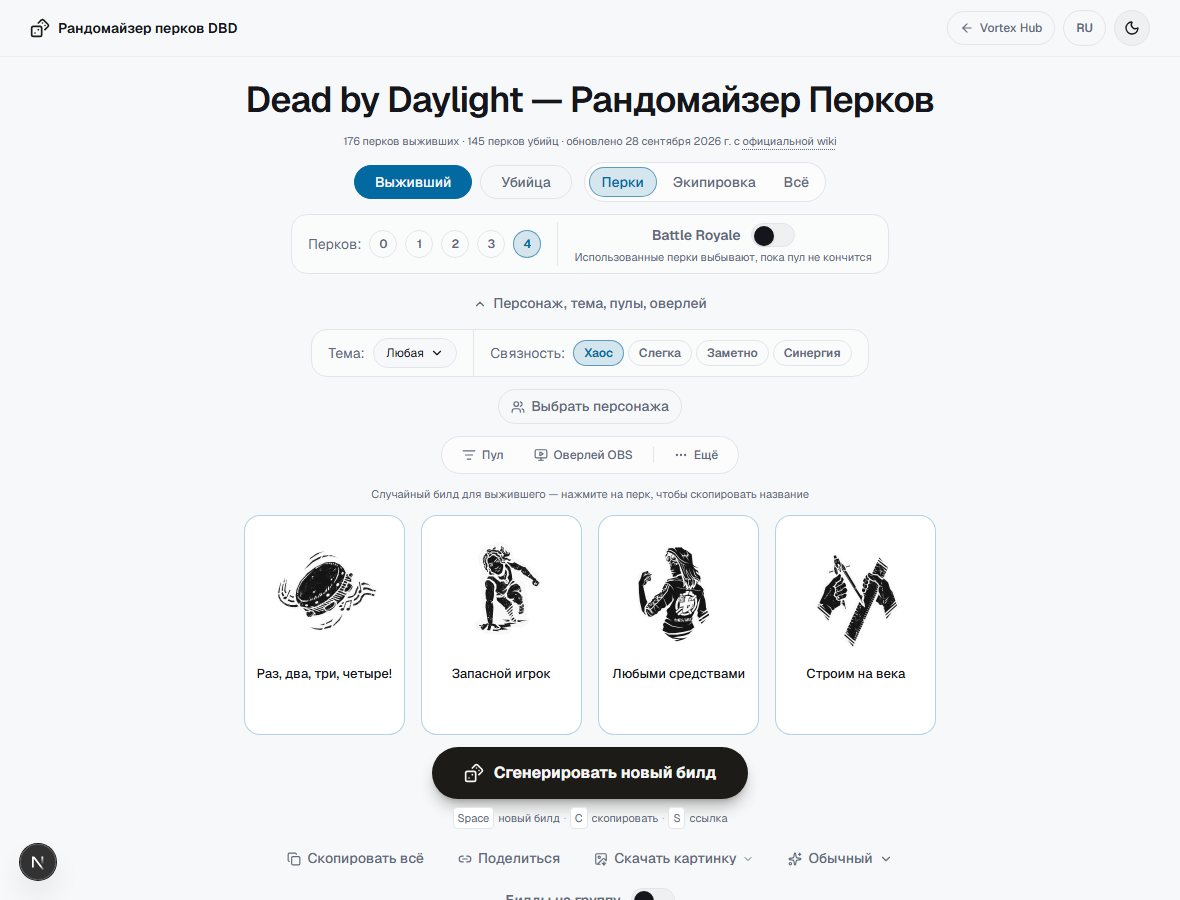
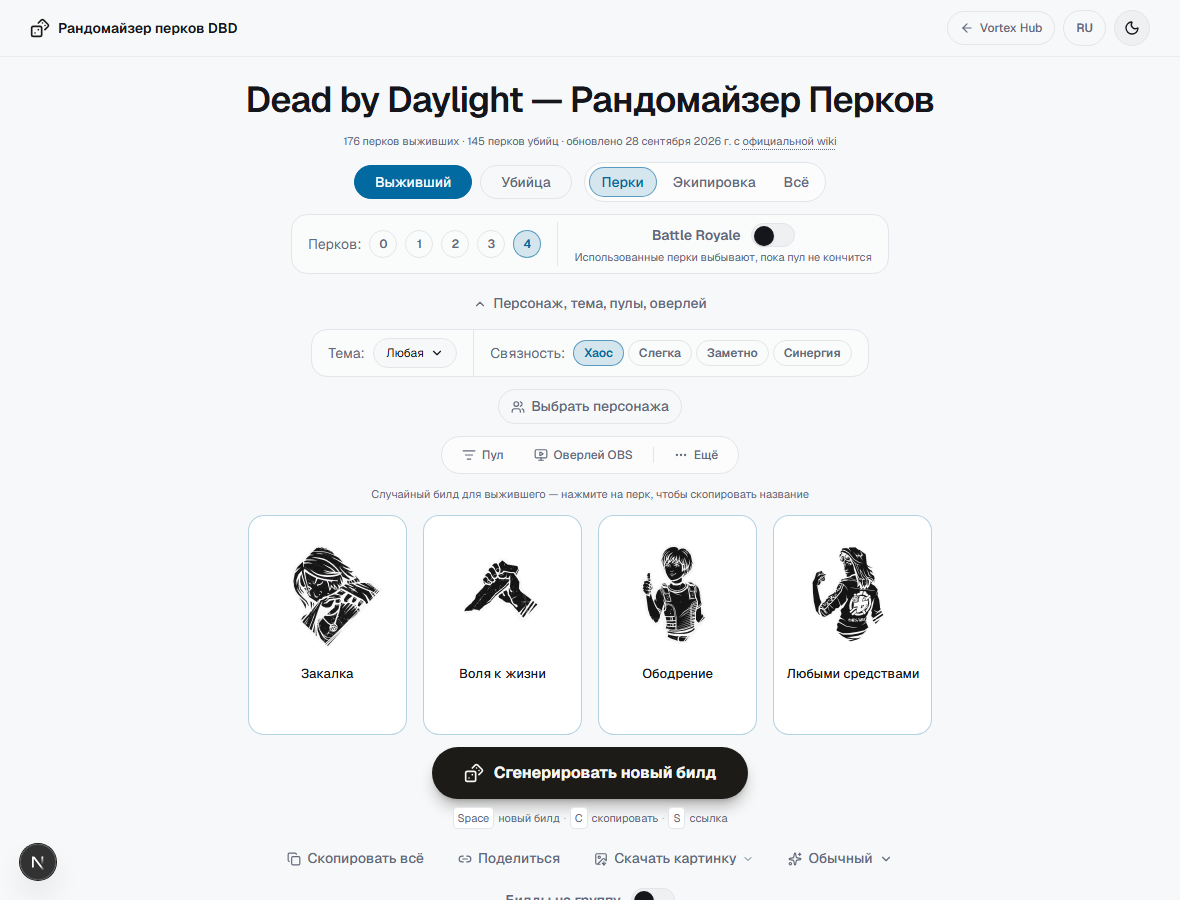
Show the favourite star only when it means something
Every card in the pool grid carried the same outlined star, so 176 cards
showed 176 identical marks that said nothing until one was set.

A set favourite is state and stays drawn, filled and amber. An unset one is
an offer, and now follows the reveal the card controls already use: hidden
until the card is hovered, shown on keyboard focus, always on under
`pointer: coarse` where there is no hover.

That rule moved into CORNER_REVEAL in card-affordance.ts. The star needs it
at a quarter of the size of the board's corner buttons — a 40px control on
a 70px pool card is not the same control — so sharing the clause keeps one
definition of the behaviour while letting the geometry differ.

Opacity only, never display:none or visibility:hidden: both take the
control out of the accessibility tree and out of the tab order. Measured
across the four states — idle 0, hover 1, unhover 0, tabbed 1 and focused —
with the card 95px tall throughout, since the star is absolutely positioned
and was never in the flow.

Also fixes a bug this surfaced rather than caused. Enter on the focused
star toggled the perk's EXCLUSION and left the favourite alone: the card's
own onKeyDown caught the bubbled event and preventDefault'd the button's
activation before it happened. Confirmed against unchanged code first. The
handler now ignores keys that did not originate on the card itself, which
is what perk-grid.tsx gets for free from its isKeyboardFocused guard.

diff --git a/components/dbd/exclude-panel.tsx b/components/dbd/exclude-panel.tsx
@@ -18,6 +18,7 @@ import { getPerksByRole } from "@/lib/perks";
 import { withBasePath } from "@/lib/asset-path";
 import { cn } from "@/lib/cn";
 import { ROLE_COLOR } from "@/lib/role-color";
+import { CORNER_REVEAL } from "./card-affordance";
 import { useT } from "@/lib/i18n";
 import { useModal } from "@/lib/use-modal";
 import { getCharacterName } from "@/lib/character-name";
@@ -435,12 +436,29 @@ export function ExcludePanel({
                         tabIndex={0}
                         onClick={() => onToggle(perk.slug)}
                         onKeyDown={(e) => {
+                          /* Only the card's OWN keys.
+                          
+                             The favourite button sits inside this card, so
+                             Enter pressed on it bubbles here — and this
+                             handler's preventDefault cancelled the button's
+                             own activation before it happened. Measured:
+                             tabbing to the star and pressing Enter toggled
+                             the perk's EXCLUSION and left the favourite
+                             untouched. It predates the star being hidden,
+                             but a control that is only revealed on focus had
+                             better work when you get there.
+                          
+                             perk-grid.tsx's card avoids this by accident:
+                             its isKeyboardFocused guard compares against
+                             document.activeElement, which is the child when
+                             a child is focused. This one had no guard. */
+                          if (e.target !== e.currentTarget) return;
                           if (e.key !== "Enter" && e.key !== " ") return;
                           e.preventDefault();
                           onToggle(perk.slug);
                         }}
                         className={cn(
-                          "relative flex cursor-pointer flex-col items-center gap-1 rounded-xl border p-2 text-center transition-all",
+                          "group relative flex cursor-pointer flex-col items-center gap-1 rounded-xl border p-2 text-center transition-all",
                           excluded
                             ? "border-border/40 opacity-35 grayscale"
                             : cn("border-border", roleColor.hoverBorder),
@@ -462,11 +480,21 @@ export function ExcludePanel({
                               ? t({ ru: "Убрать из избранного", en: "Remove from favorites" })
                               : t({ ru: "Добавить в избранное", en: "Add to favorites" })
                           }
+                          /* A set favourite is always drawn — it is the
+                             state, not an affordance. An unset one is the
+                             offer to set it, and 176 identical outlined
+                             stars is 176 marks that mean nothing until one
+                             of them does. So the empty star follows the
+                             same reveal the card controls elsewhere use.
+                          
+                             Absolutely positioned, so nothing reflows when
+                             it appears; the space was never in the flow to
+                             begin with. */
                           className={cn(
-                            "absolute top-1 left-1 flex size-4 items-center justify-center rounded-full bg-black/60 transition-colors",
+                            "absolute top-1 left-1 flex size-4 items-center justify-center rounded-full bg-black/60 transition-opacity",
                             favoriteSlugs.has(perk.slug)
-                              ? "text-amber-400"
-                              : "text-white/50 hover:text-white",
+                              ? "text-amber-400 opacity-100"
+                              : cn(CORNER_REVEAL, "text-white/50 hover:text-white"),
                           )}
                         >
                           <Star

diff --git a/components/dbd/card-affordance.ts b/components/dbd/card-affordance.ts
@@ -24,7 +24,22 @@ export const CORNER_BUTTON_BASE =
    copy button was a hover-only icon once and was replaced with a labelled
    always-visible one precisely because touch could never reveal it; the
    icon only comes back now because this treatment answers that. */
+/* WHEN a card control shows, with nothing about how big it is.
+  
+   Split out because the pool grid's favourite star needs the same rule at a
+   quarter of the size — a 40px button on a 70px pool card is not the same
+   control. Sharing the clause rather than the whole class keeps one
+   definition of the behaviour while letting the geometry differ.
+  
+   Requires `group` on the card. Never display:none or visibility:hidden:
+   both take the control out of the accessibility tree and out of the tab
+   order, and a favourite you cannot reach by keyboard is worse than one
+   that is always drawn. Opacity leaves it there for everyone who is not
+   looking at it. */
+export const CORNER_REVEAL =
+  "opacity-0 pointer-coarse:opacity-100 group-hover:opacity-100 focus-visible:opacity-100";
+
 export const CORNER_BUTTON_IDLE =
-  "bg-black/40 text-white/80 opacity-0 pointer-coarse:opacity-100 group-hover:opacity-100 hover:bg-black/60 hover:text-white focus-visible:opacity-100";
+  `bg-black/40 text-white/80 hover:bg-black/60 hover:text-white ${CORNER_REVEAL}`;
 
 export const CORNER_BUTTON = cn(CORNER_BUTTON_BASE, CORNER_BUTTON_IDLE);
